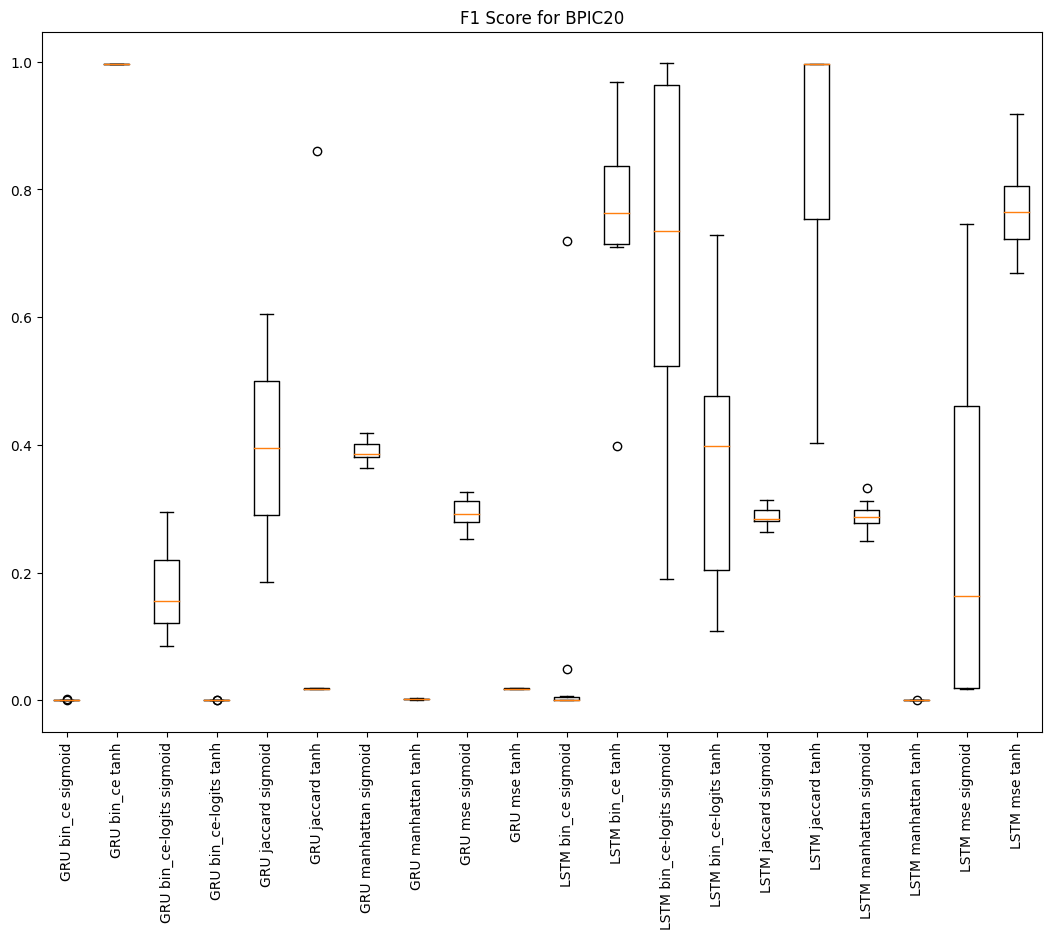
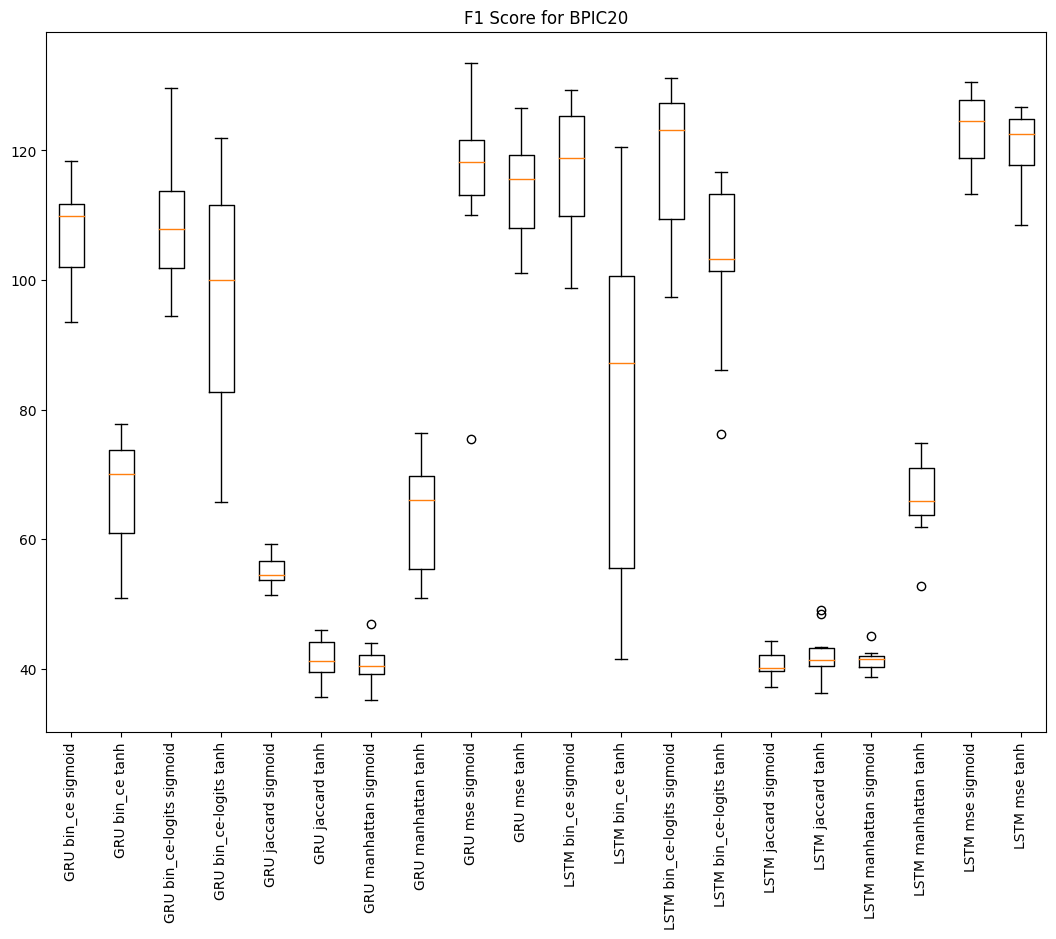
Updating Box-plots + Code refactoring

diff --git a/scripts/analyzes/box_plot.py b/scripts/analyzes/box_plot.py
@@ -3,6 +3,7 @@ import re
 import pandas as pd
 import numpy as np
 import matplotlib.pyplot as plt
+import statistics as stat
 
 
 def parse_match(match, regex):
@@ -83,17 +84,11 @@ def weighted_mean(distribution):
     support_directory = "training_support/"
     data = read_csv_file(support_directory)
 
-    avgs = []
     for config in data.index:
-        w = data['Data'][config].values
-        d = distribution['Data'][config].values
-        avg = []
-        for weights, distrib in zip(w, d):
-            weighted_avg = round(np.average(distrib, weights=weights), 4)
-            avg.append(weighted_avg)
-        avgs.append(avg)
-
-    distribution['Data'] = pd.DataFrame(np.array(avgs))
+        w = data['Data'][config]
+        d = distribution['Data'][config]
+        weighted_distrib = round(d * w, 4)
+        distribution['Data'][config] = weighted_distrib.mean(axis=1)
 
 
 def create_boxplot(directory, ds, metric):
